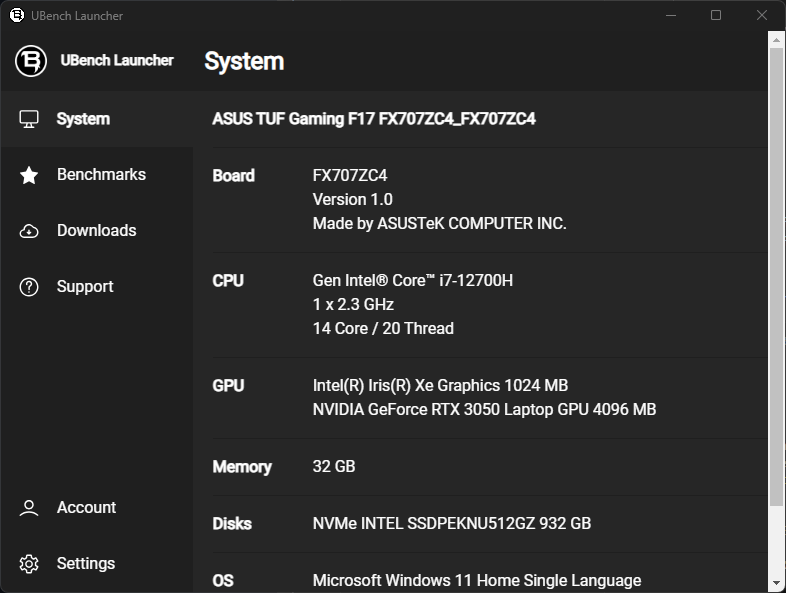
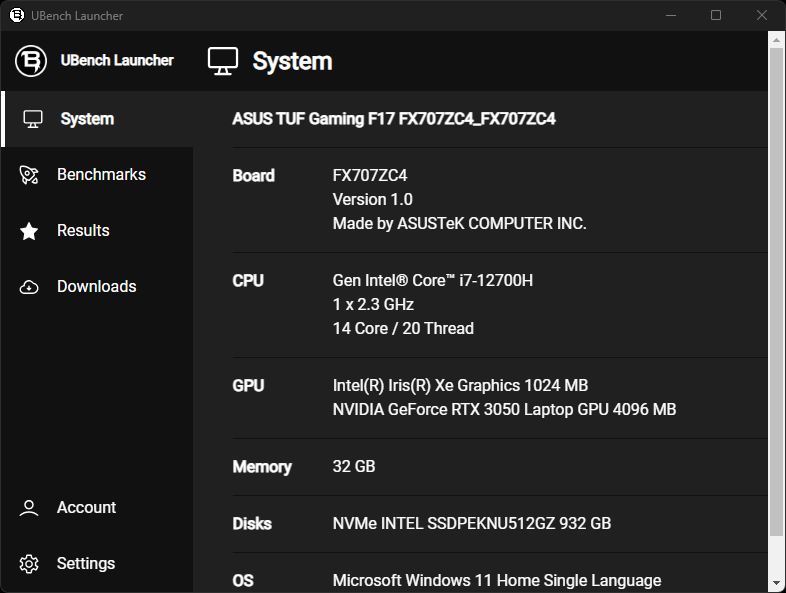
updated visual style, menu

diff --git a/public/css/style.css b/public/css/style.css
@@ -13,7 +13,7 @@
 }
 
 :root {
-    --darker: #262626;
+    --darker: #202020;
     --dark: #363636;
     --bs-blue: #1717e5;
     --bs-indigo: #6610f2;
@@ -69,7 +69,7 @@
     --bs-border-width: 1px;
     --bs-border-style: solid;
     --bs-border-color: #dee2e6;
-    --bs-border-color-translucent: rgba(2, 2, 2, 0.175);
+    --bs-border-color-translucent: #111;
     --bs-border-radius: 0.375rem;
     --bs-border-radius-sm: 0.25rem;
     --bs-border-radius-lg: 0.5rem;
@@ -146,6 +146,7 @@ body {
     transition: 0.1s ease-in-out all;
     text-decoration: none;
     color: white;
+    border-left: 0;
 }
 
 .nav-item img {
@@ -157,6 +158,8 @@ body {
 .active {
     background-color: var(--darker);
     font-weight: bold;
+    border-left: 4px solid white;
+    transition: 0.1s ease-in-out all;
 }
 
 .nav-item:hover {
@@ -190,14 +193,17 @@ body {
     width: 100%;
     position: fixed;
     z-index: 10;
-    background-color: var(--darker);
+    background-color: #111;
+    display: flex;
+    height: 60px;
 }
 
 .title {
     z-index: 3;
     margin: 0;
-    padding: 12px;
-    background-color: var(--bs-border-color-translucent);
+    padding: 0px;
+    vertical-align: middle;
+    height: 40px;
 }
 
 .loading {
@@ -318,7 +324,7 @@ body {
 
 .right {
     float: right;
-    margin: 20px;
+    margin-right: 20px;
 }
 
 line::before {
@@ -372,4 +378,27 @@ textarea {
     right: 20px;
     display: inline-block;
     resize: none;
+}
+
+.contents {
+    padding: 20px;
+    margin: 20px;
+}
+
+.icon {
+    width: 32px;
+    height: 32px;
+    filter: invert();
+    top: 0;
+    
+}
+
+#header>img {
+    left: 16px;
+    top: 14px;
+    padding: 14px;
+}
+
+#header>h2 {
+    padding-top: 12px;
 }

diff --git a/public/js/app.js b/public/js/app.js
@@ -12,4 +12,5 @@ function change_selected_menu_item(){
     }
     document.getElementById(id).classList.add("active");
     document.getElementById("title").innerHTML = id;
+    document.getElementById("title_img").src = `./icons/${id}.svg`;
 }
